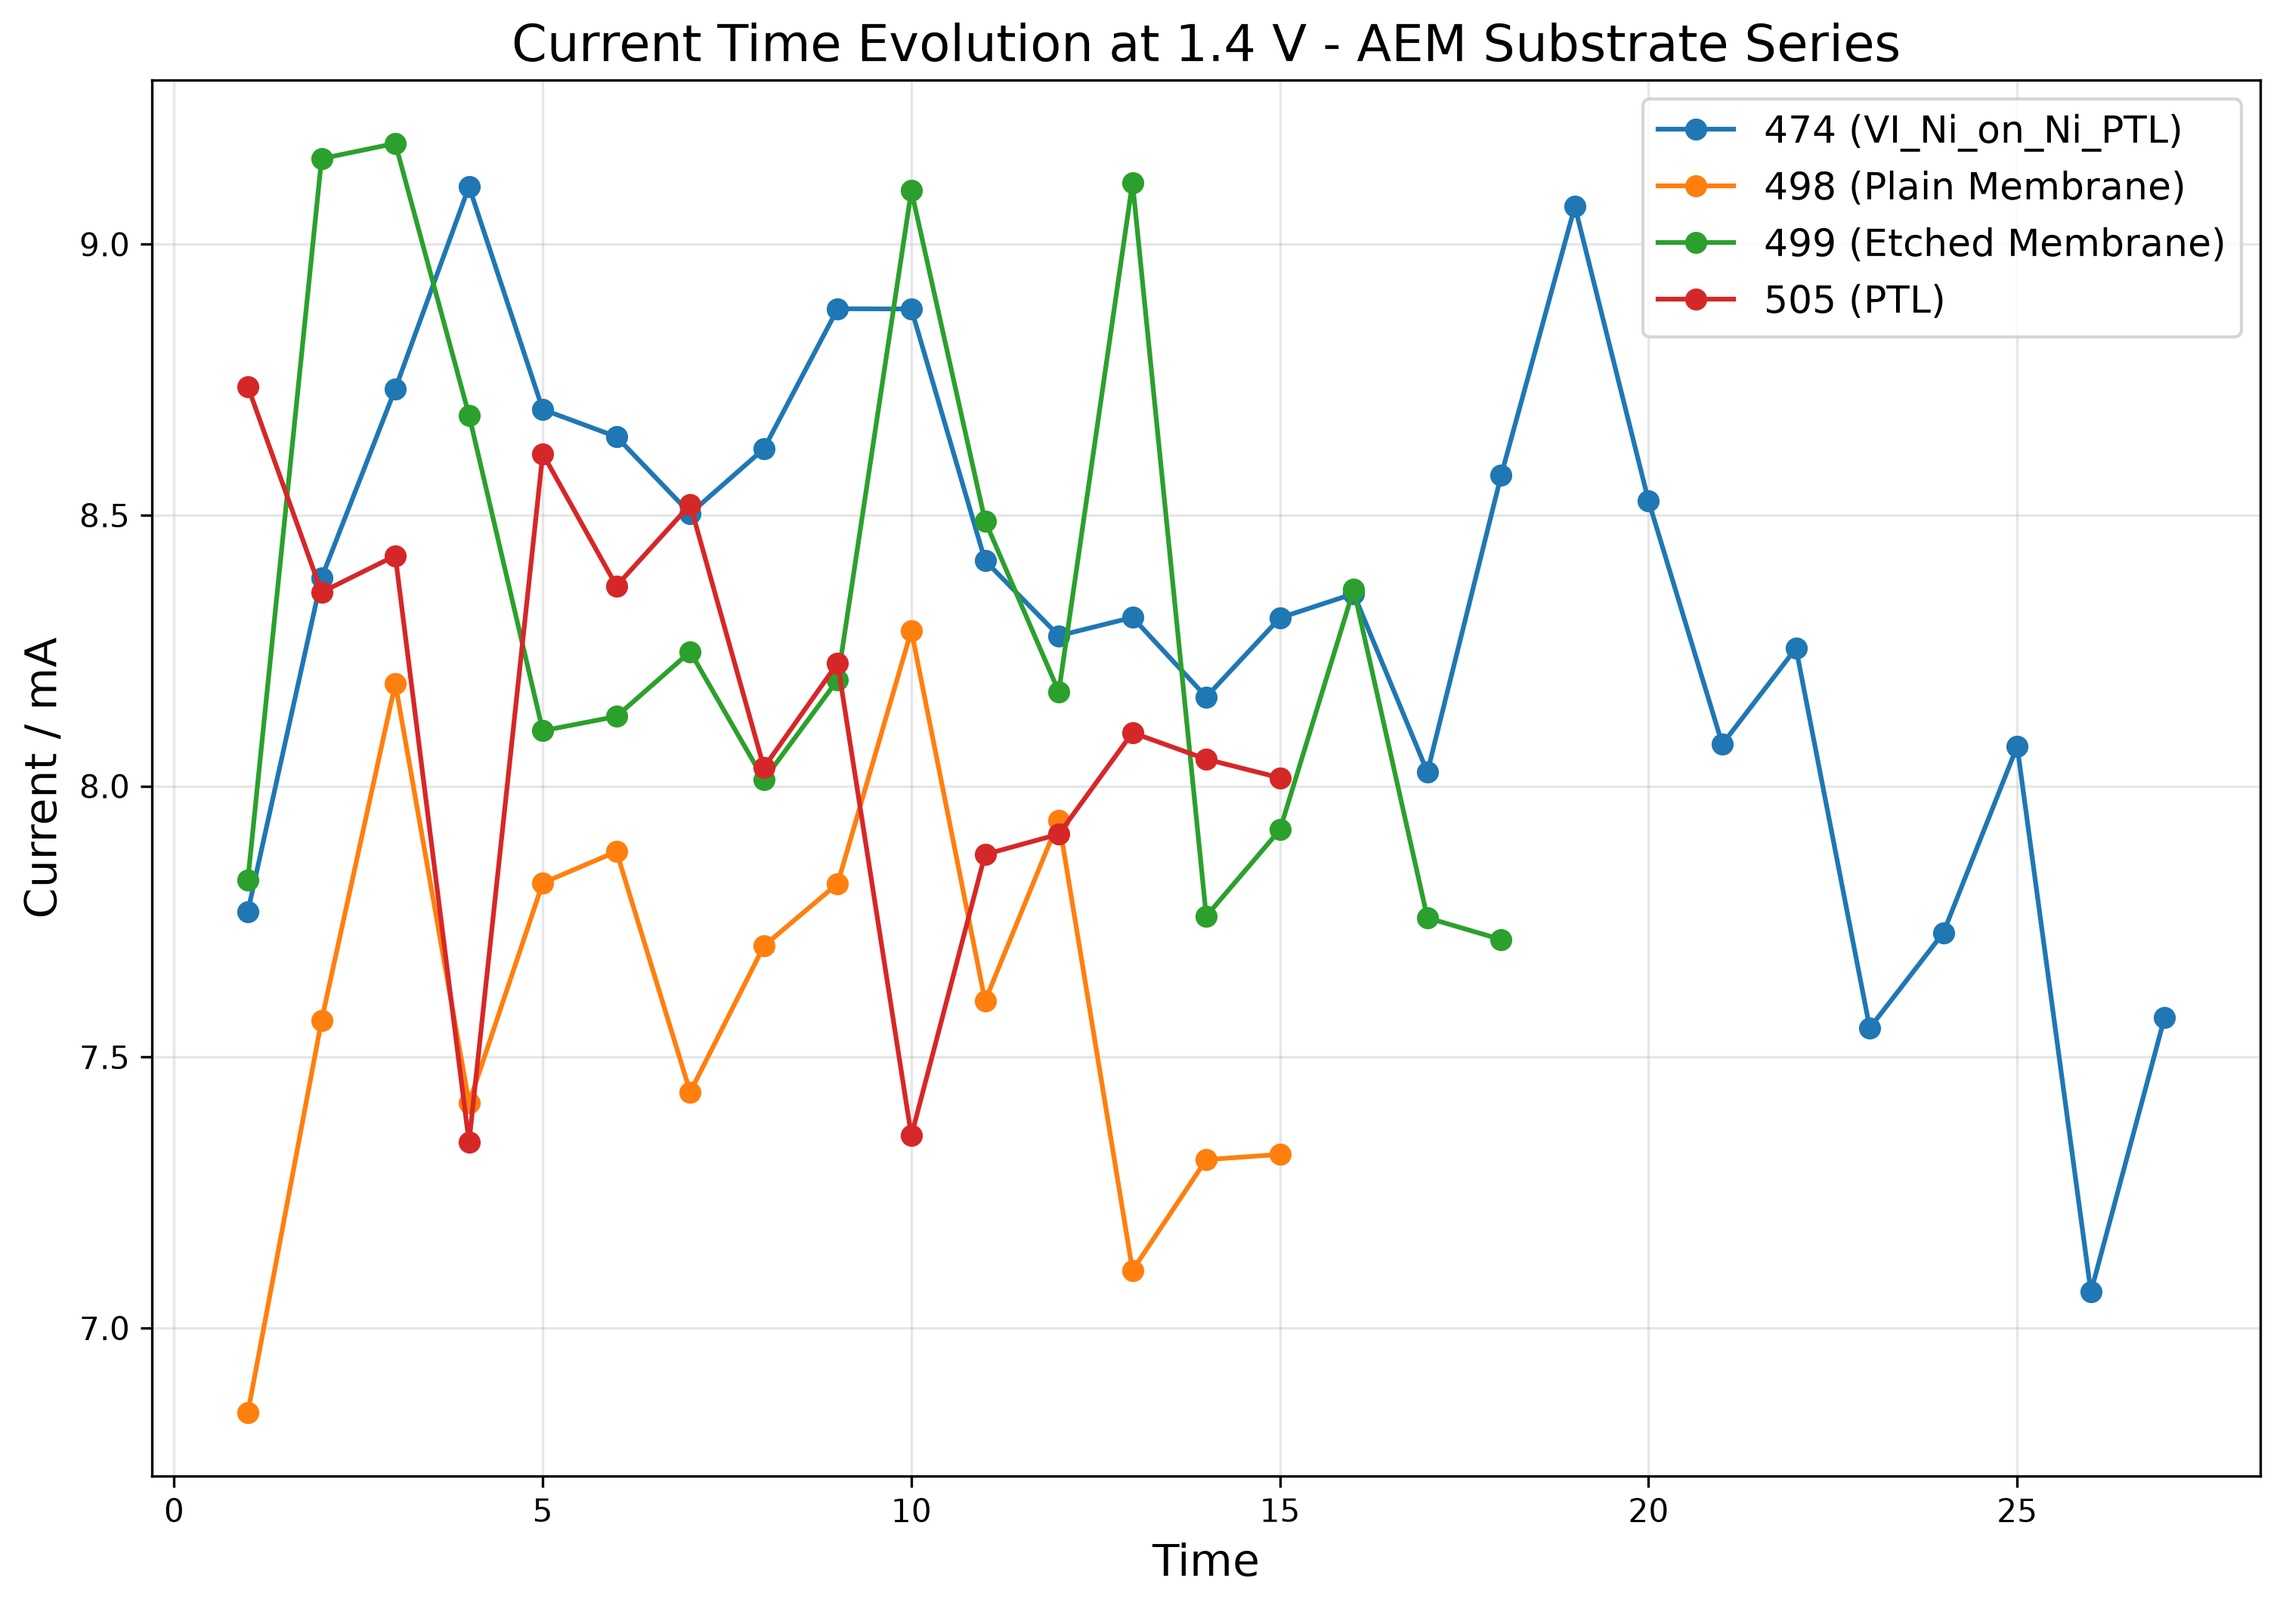
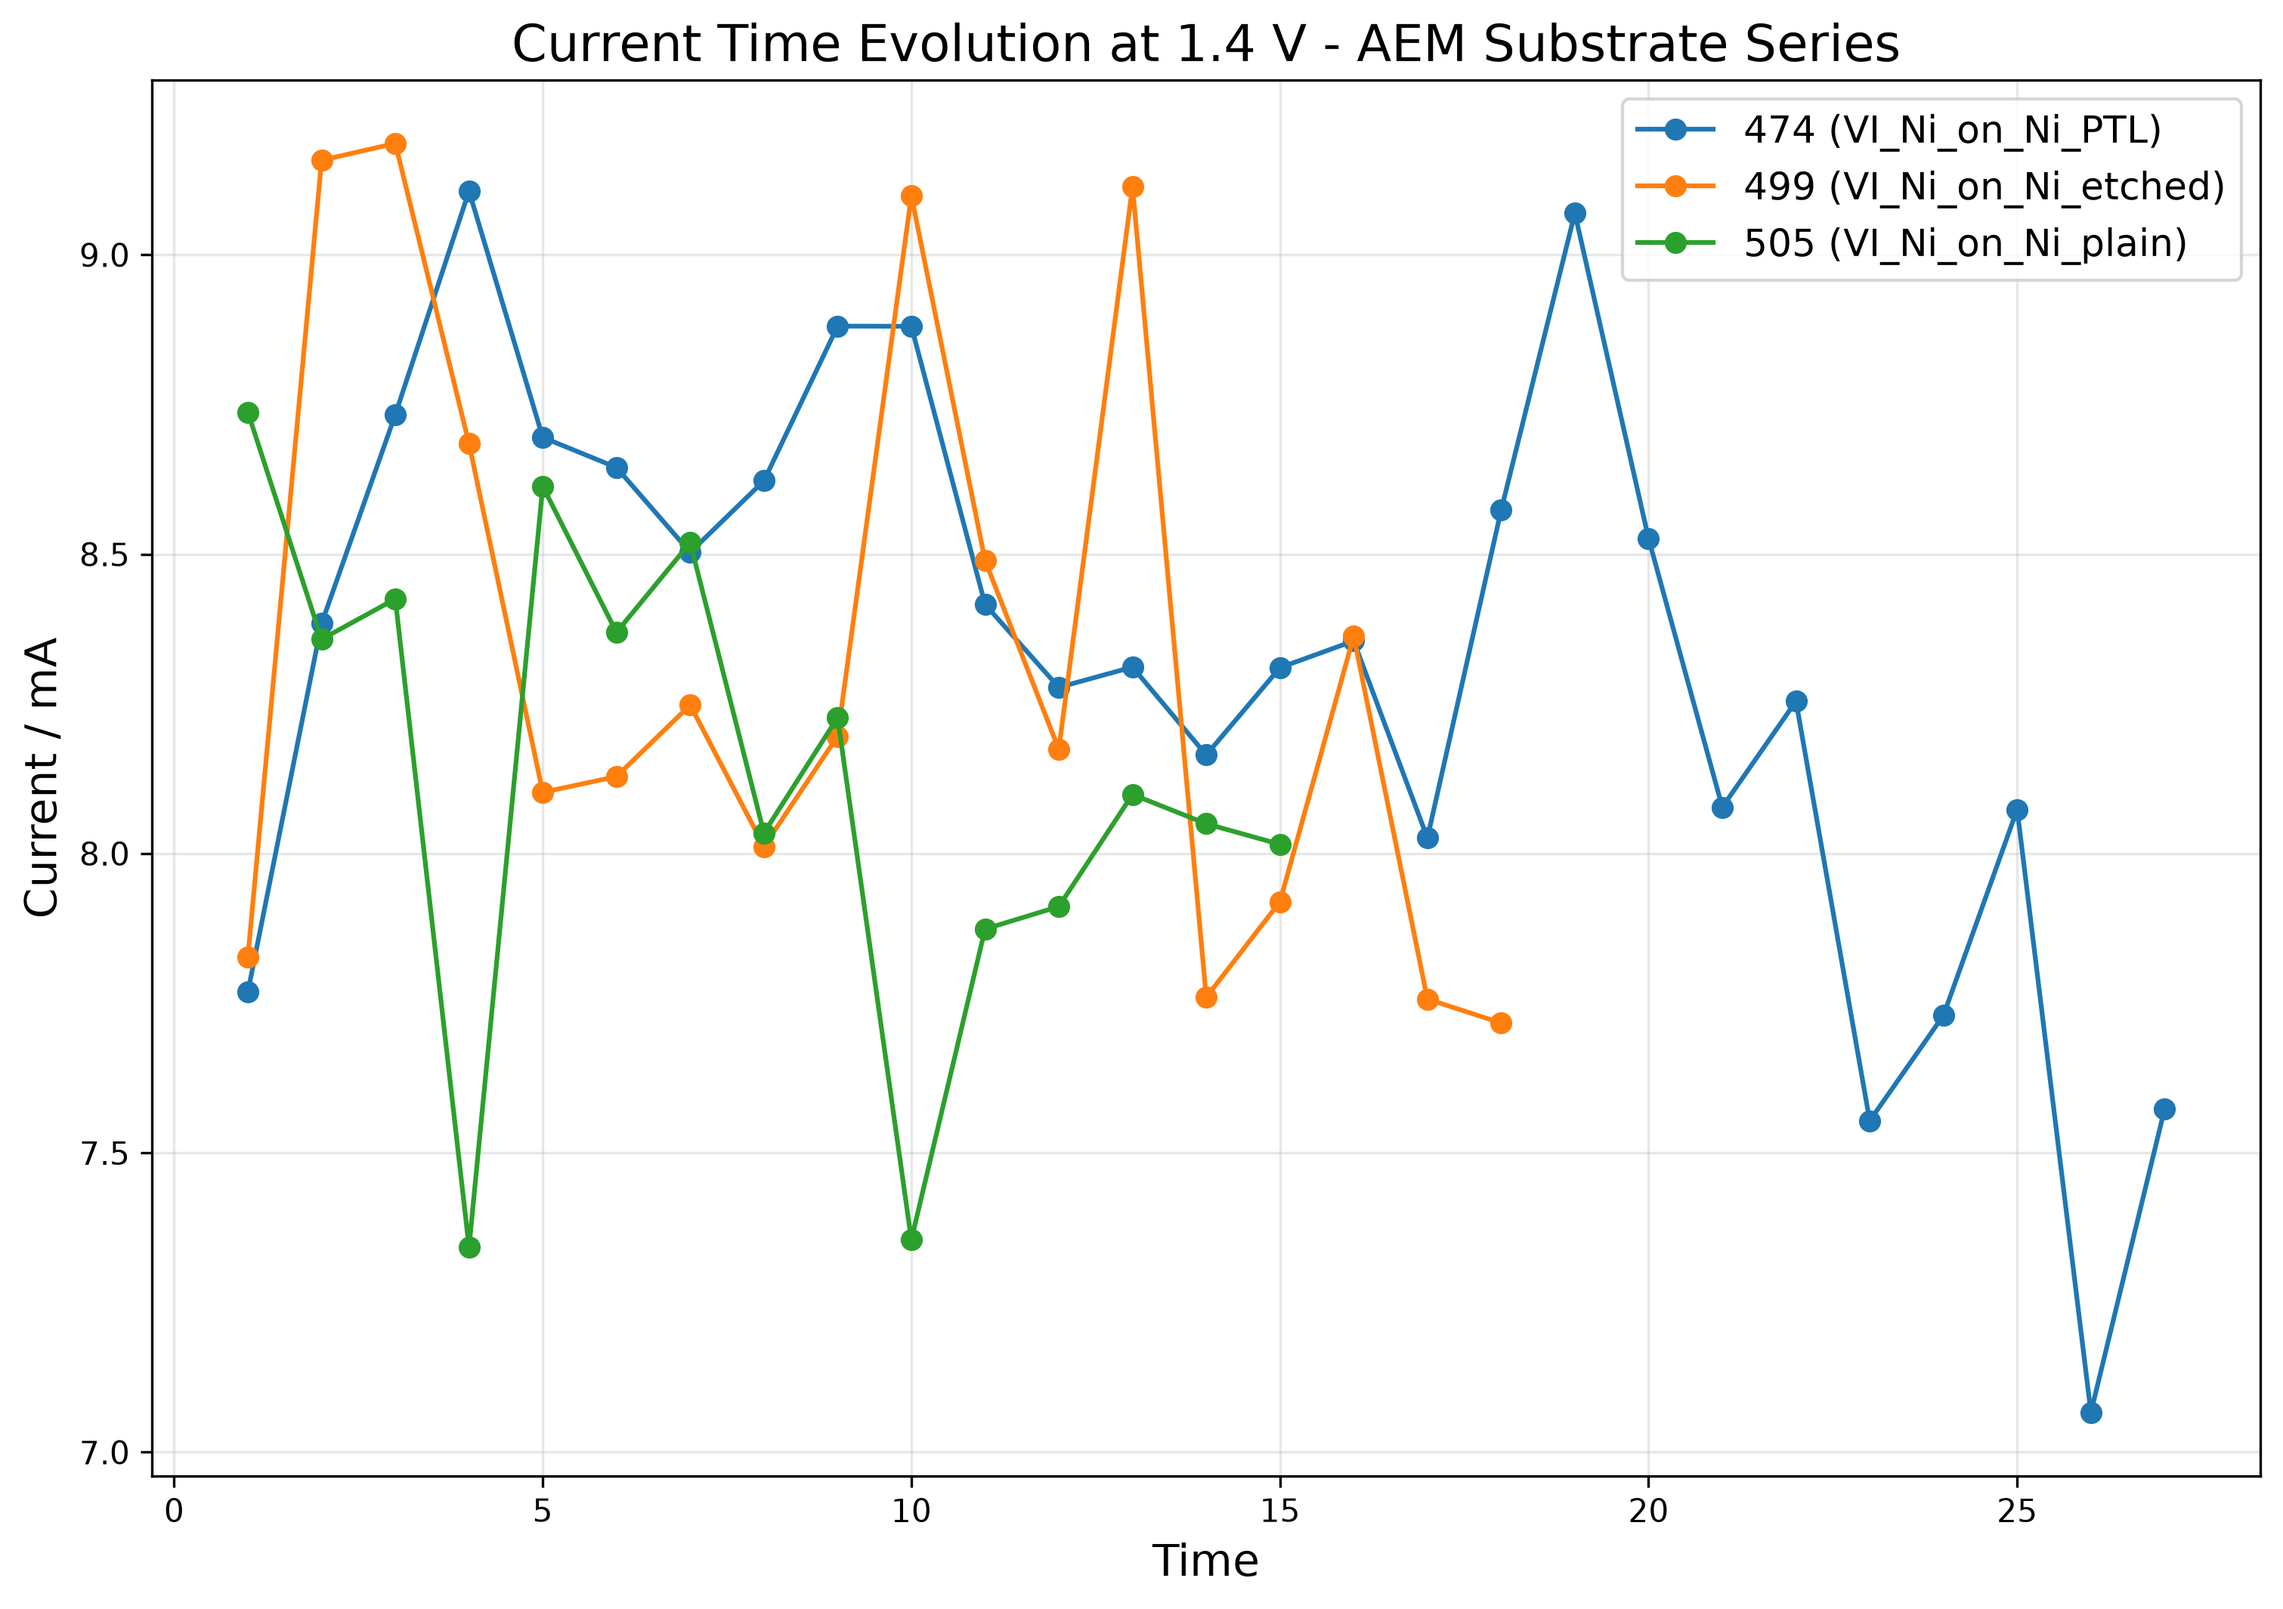
Fix AEM Substrate Series comparison: remove 498, fix legend format
- Corrected SAMPLES list in compare_current_evolution.py to only include 474, 499, 505 (NOT 498)
- Updated sample names from Google Sheets with proper legend format
- Added legend format rule to guide: sample_number (sample_name)
- Added note that sample 498 is NOT part of AEM Substrate Series
- Regenerated all 8 comparison graphs with correct samples and legend format

diff --git a/AEMs/scripts/compare_current_evolution.py b/AEMs/scripts/compare_current_evolution.py
@@ -11,18 +11,18 @@ import numpy as np
 import matplotlib.pyplot as plt
 from pathlib import Path
 
-# AEM Substrate Series samples
-SAMPLES = ['474', '498', '499', '505']
+# AEM Substrate Series samples (474, 499, 505 only - NOT 498)
+SAMPLES = ['474', '499', '505']
 
 # Target voltages for comparison (same as in generate_polarization_graphs.py)
 TARGET_VOLTAGES = [1.4, 1.45, 1.5, 1.55, 1.6, 1.7, 1.8, 1.9]
 
-# Sample display names (from Google Sheets or default)
+# Sample display names from Google Sheets
+# Legend format: sample_number (sample_name)
 SAMPLE_NAMES = {
     '474': 'VI_Ni_on_Ni_PTL',
-    '498': 'Plain Membrane',
-    '499': 'Etched Membrane',
-    '505': 'PTL',
+    '499': 'VI_Ni_on_Ni_etched',
+    '505': 'VI_Ni_on_Ni_plain',
 }
 
 def load_sample_data(sample_id):

diff --git a/AEMs/AEM_EIS_FITTING_GUIDE.md b/AEMs/AEM_EIS_FITTING_GUIDE.md
@@ -171,7 +171,13 @@ This series compares EIS results when catalyst is deposited on different substra
 
 **Samples in this series**: 474, 499, 505
 
+**Important**: Sample 498 is NOT part of this series.
+
 This series is used for comparing how the substrate type affects electrochemical performance and EIS parameters.
+
+#### Legend Format Rule
+In comparison plots between samples, always use the format: `sample_number (sample_name)`
+Example: `474 (VI_Ni_on_Ni_PTL)`
 
 ---
 
